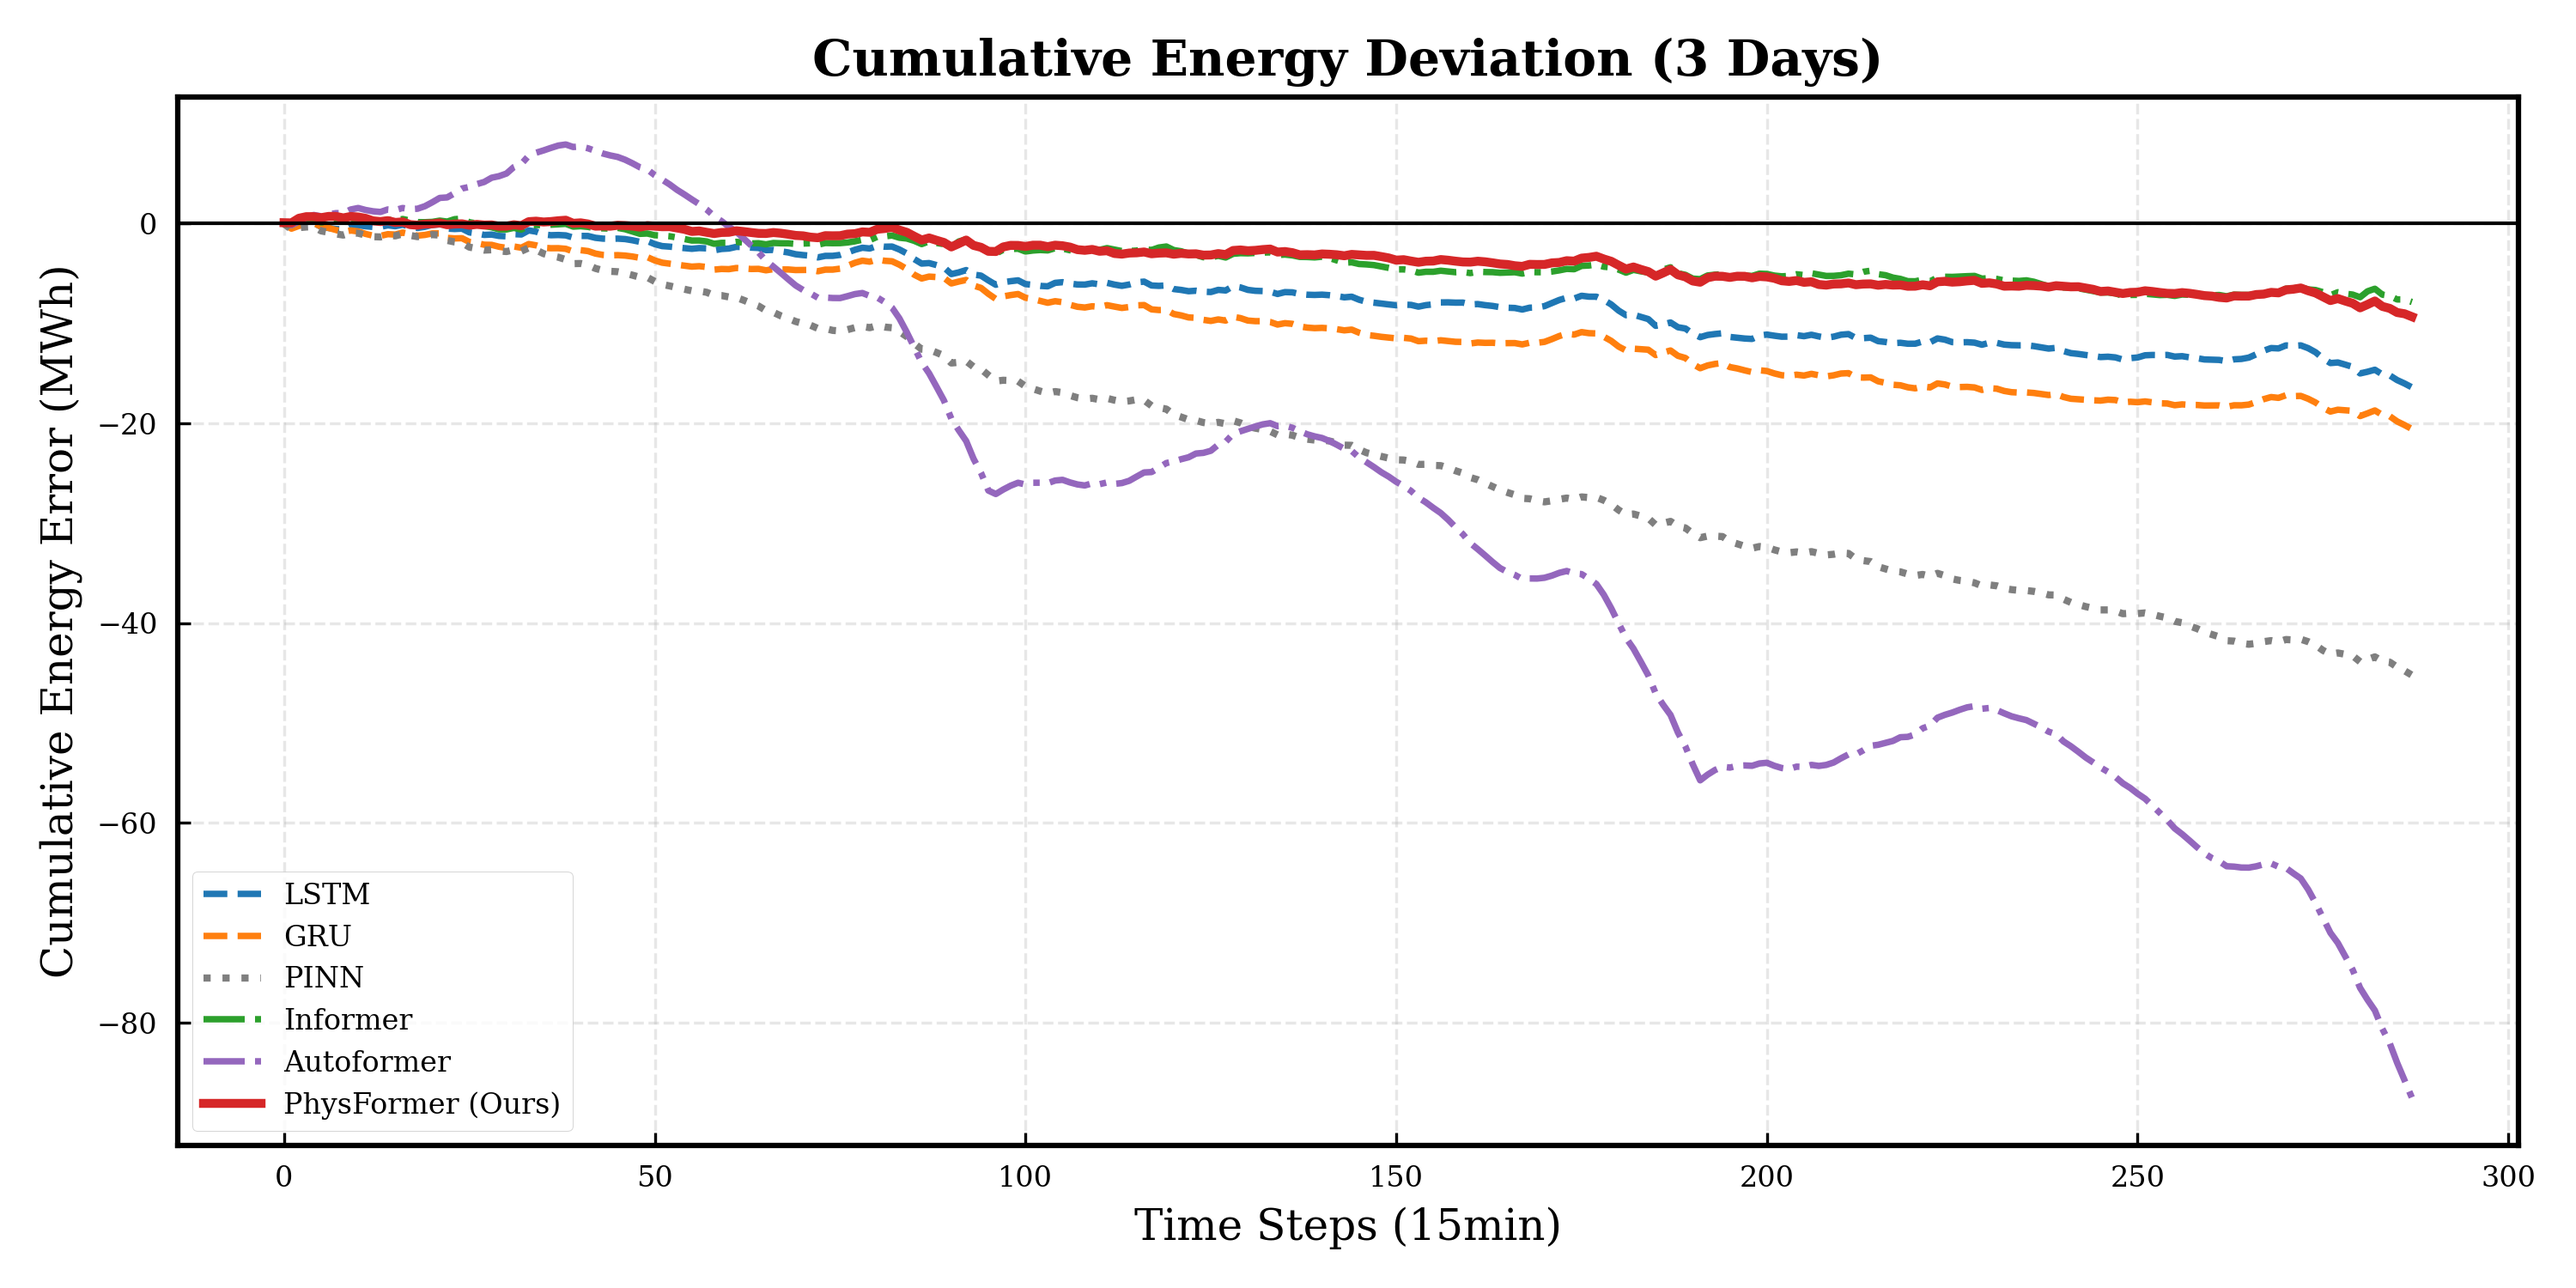
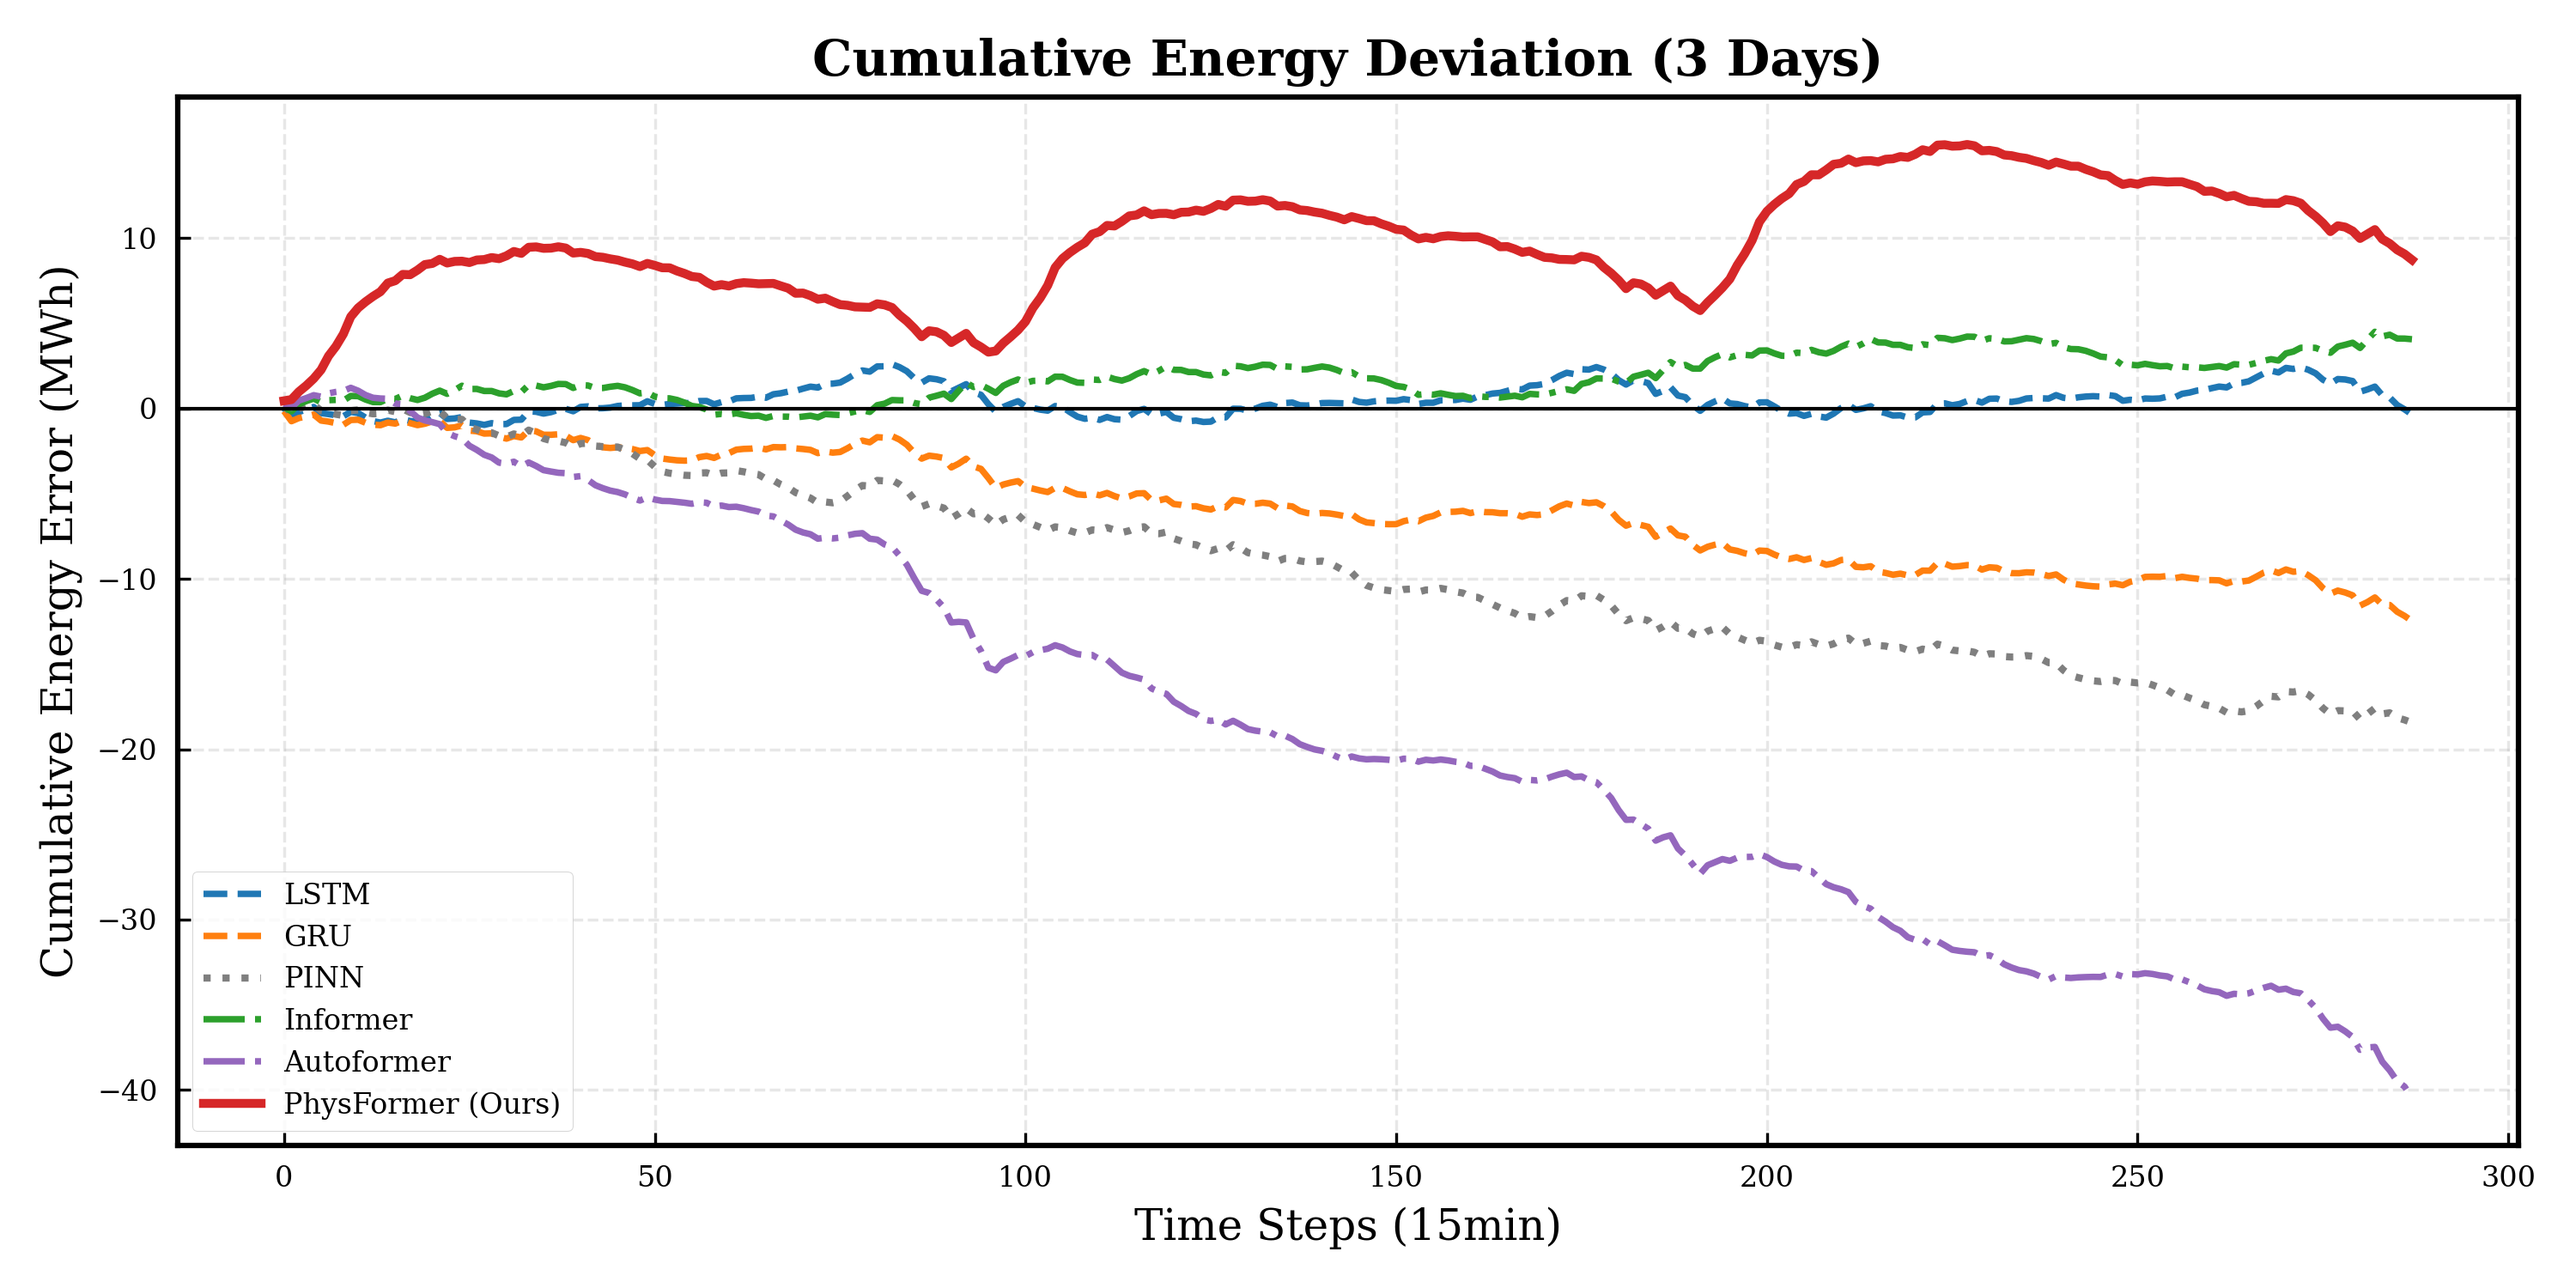
Physformer-V0.4

diff --git a/scripts/run_PhysFormer.py b/scripts/run_PhysFormer.py
@@ -96,7 +96,7 @@ def main():
     print(">>> Using PhysFormer Experiment (Physics-Guided Loss) <<<")
 
     # print('>>>>>>>start PhysFormer training : >>>>>>>>>>>>>>>>>>>>>>>>>>')
-    Exp.train()
+    # Exp.train()
 
     print('>>>>>>>start PhysFormer test : >>>>>>>>>>>>>>>>>>>>>>>>>>')
     Exp.test(setting=args.checkpoint_name)

diff --git a/Visualizaiton/vis_paper.py b/Visualizaiton/vis_paper.py
@@ -323,7 +323,7 @@ if __name__ == "__main__":
 
     viz.load_data(model_list,
                   data_name='vpp_dataset_3years',
-                  phys_exp_name='PhysFormer_experiment_v5',
+                  phys_exp_name='PhysFormer_experiment_v6',
                   seq_len=672,
                   pred_len=96)
 
